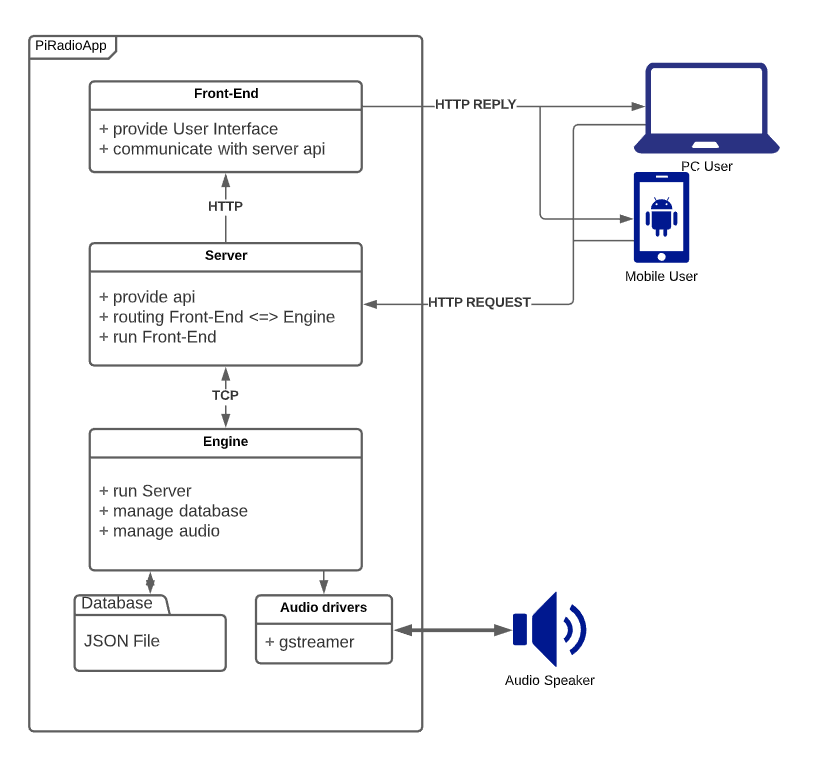
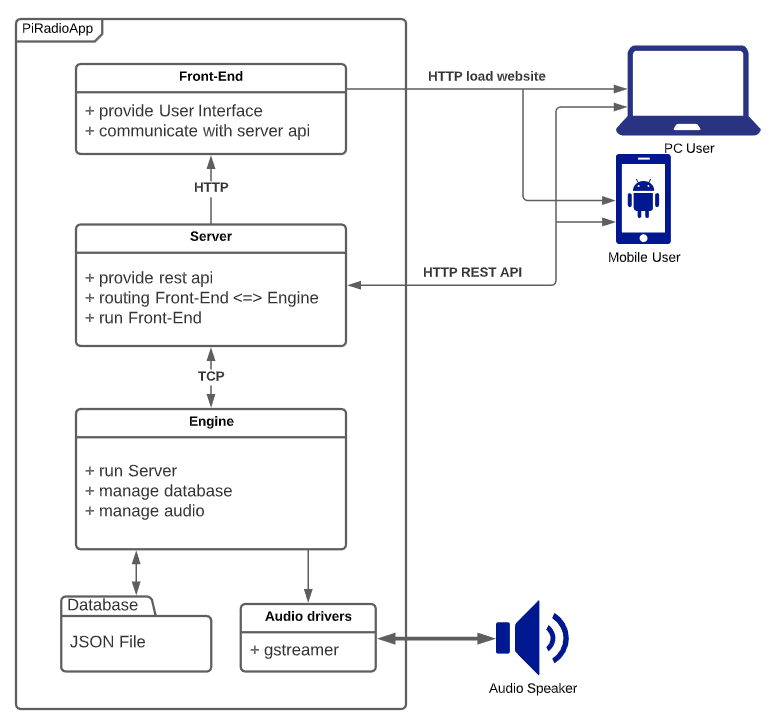
updated docs, add basic manuals

Changed region(s): [[0.0, 0.0, 0.9859, 0.9986], [0.4313, 0.4539, 0.4621, 0.4842]]

diff --git a/docs/engine.md b/docs/engine.md
@@ -1,0 +1,111 @@
+[Main](README.md)
+
+# Engine Module Documentation
+
+# Run Engine
+## Arguments
+Example
+```http
+    ./PiRadioApp -col -db test-database.json
+```
+
+Some arguments send to engine are also pass to server (if not `--only` mode).
+
+| Argument | Short | Description | Default | Example |
+| --- | --- | --- | --- | --- | 
+| `--help` | `-h` | only show help sheet | x | x |
+| `--internal-communication-address [addr]` | `-ica [addr]` | set address | `tcp://127.0.0.1:7982` | `-ica tcp://127.0.0.1:5000` |
+| `--server-host-address [addr]` | `-sha [addr]` | set host website/api | `:8080` | `-sha 127.0.0.1:8000` |
+| `--debug` | x | debug mode (shows debug message) | no debug | x |
+| `--only` | x | run only engine (without server) | run server | x | 
+| `--database [path]` | `-db [path]` | set database file path | `~/radio-database.json` | `-db test-database.json` |
+| `--colors` | `-col` | set colors in console [more](https://en.wikipedia.org/wiki/ANSI_escape_code#Colors) | no colors | x |
+| `--basic` | x | only important messages (warn, err) | all std msgs | x |
+| `--no-audio` | `-na` | no audio mode, mainly testing purpose | audio on | x | 
+| `--run-server-cmd [cmd]` | `-rsc [cmd]` | set run server cmd | `./build/server` | `-rsc ./server` |
+| `--resource [path]` | `-res [path]` | set server resource path ((!) without args) | `server/resources/` | `-res var/www` | 
+
+# Communication with Engine
+
+> Communication with engine is via **TCP** socket.
+
+### **TCP Communication**
+Communication via tcp socket require specific ip and port. Allows to control engine in local network.
+
+Best option is to use framework ZMQ to communicate. 
+
+## Routes and Requirements
+---
+| Route | [Request (value)](#message-format---json---to-engine) | [Reply](#message-format---json---from-engine) | Description |
+| --- | --- | --- | --- |
+| `database/get/all` | `route` | `status`, array of Stations | get all available Stations |
+| `database/put` | `route`, [Station JSON](#station-json-format---to-engine) | `status` | put new/change exist: Station uri by `name` |
+| `database/delete` | `route`, Station `name` in JSON | `status` | delete Station by `name` | 
+| `audio/switch/prev` | `route` | `status` | previous station |
+| `audio/switch/next` | `route` | `status` | next station |
+| `audio/set/state` | `route`, `state` in JSON value | `status` | set [state](#engine-state): `play`, `pause` or `stop` |
+| `audio/set/station` | `route` | `status`,Station `name` in JSON | set station by `name`| 
+| `audio/get/state` | `route` | `status`,  `state` in JSON value | return Audio Engine [state](#engine-state) | 
+| `audio/get/current` | `route` | `status`, return current Station in JSON value | return all detail about current station |
+
+`status` mean `code` and `message` about status of execution. [More Details](#message-format---json---from-engine)
+## Details
+---
+### Default Path 
+```python
+tcp://127.0.0.1:5010
+```
+
+### Message Format - JSON - to engine
+<span style="color:red">
+<b>IMPORTANT</b>
+Messages must have JSON format, but they are sent and recive as string.
+</span>
+
+```json
+{
+    "route" : "example/route",
+    "value" : null
+}   
+```
+`value` can contain JSON format, depends on route.
+
+### Message Format - JSON - from engine
+```json
+{
+    "code" : 200,
+    "message" : "example ok message",
+    "value" : null
+}
+```
+- `code` - status code
+- `value` can contain JSON format, depends on request eg. Array of stations
+
+### Station JSON format - to engine
+```json
+{
+    "name" : "example name",
+    "uri" : "http://example.station"
+}
+```
+
+### Station JSON format - from engine
+```json
+{
+    "name" : "example name",
+    "uri" : "http://example.station",
+    "isPlaying" : false,
+    "title" : "If it is"
+}
+```
+
+### Engine State
+- `play` 
+- `pause` 
+- `stop`
+```json
+{
+    "state" : "play"
+}
+```
+

diff --git a/docs/developer_manual.md b/docs/developer_manual.md
@@ -1,26 +1,115 @@
 # Developer manual
 
 ## Requirements
-os 
-
+Supported OS (tested):
+- Raspbian 5.4 Lite (Raspberry 3B+)
+- Ubuntu 18.04 or newer
+- Linux Mint 20 Ulyana Cinnamon
+- WSL Ubuntu 18.04 - NO AUDIO MODE
+- WSL Ubuntu 20.04 - NO AUDIO MODE
+# Setup
+Download repository
+```
+git clone git@github.com:PiRadioApp/PiRadioApp.git
+```
 ## Quick and fast setup
-scripts
+---
+### Build
+```Cpp
+cd PiRadioApp/scripts
+sudo sh install_enviroment.sh
+sudo sh build.sh
+```
+### Example run
+```Cpp
+cd ../build
+./PiRadioApp -res ../server/resource -db ../test-database.json
+```
 
 ## Manual setup
-tips
+---
+[Instruction here](developer_manual_install.md)
 
 ### Enviroment (dependencies)
-install env
+Follow steps in `scripts/install_enviroment.sh` to detect where the problem is. Remember that `apt` require `sudo` access to install.
+
+Compilators require (tested): gcc-9 g++-9 (C++14 support)
+Golang: 1.13
 
 ### Build
-compile engine, server
+```Cpp
+sh scripts/build.sh
+```
 
 ### Link Front-End
-resources
+use proper [flag](server.md) to set resources directory.
+Directory required resource structure:
+```Shell
+- resources/
+    - index.html
+    - favicon.png
+```
+All you put in resources will be delivered by server ([more](server.md))
+
+Example resource structure:
+```Shell
+- resources/
+    - index.html
+    - favicon.png
+    - css/
+        - example.css
+    - js/
+        - example.js
+    - img/
+        - example.jpg
+    - supportfile.txt
+```
+Then:
+- `example.css` will be avaliable at `/radio/res/css/example.css`
+- `example.js` will be avaliable at `/radio/res/js/example.js`
+- `example.jpg` will be avaliable at `/radio/res/js/example.jpg`
+- `supportfile.txt` will be avaliable at `/radio/res/supportfile.txt`
+
+With that you are able to build flexible directory tree with plenty of files, which are devlivered by server.
+
 
 ### Run
-add resources, set addresses 
+- add flag with path to resource directory
+- add flag with database json path
+- add flag with ip address if needed
 
-### Create deb package
-script
-process description
+If server, or engine do not respond you can find out logs in file: `client.txt`
+
+## NGINX
+<!-- TODO -->
+
+## Create deb package
+---
+With using automated script in folder `scripts`:
+```
+sh create_deb.sh
+```
+Script will create folder `linuxconfig` and copy all files needed to create deb package, then with `dpkg-deb` tool  create `.deb` package in directory `out/`.
+
+`linuxconfig` can be removed when `.deb` is created.
+
+Files needed in `linuxconfig`:
+```Cpp
++ linuxconfig/
+    + DEBIAN/
+        - control
+    + usr/
+        + bin/
+            + piradio/
+                - help.json
+                - resources/
+                - server
+                - PiRadioApp
+                - run.sh
+    + etc/
+        + systemd/
+            + system/
+                - piradio.service
+```
+
+Thats file are needed, but directory tree can be diffrent depends on deploy method.

diff --git a/README.md b/README.md
@@ -1,11 +1,19 @@
 
-# <img src="server/resources/favicon.png" width="32">  PiRadio 
+# <img src="server/resources/favicon.png" width="32">  PiRadio
 [![Build Status](https://travis-ci.com/PiRadioApp/PiRadioApp.svg?branch=master)](https://travis-ci.com/PiRadioApp/PiRadioApp)
 ## Description
 ```
 Simple embedded radio player.
 Control device radio via local website and play online radio from given stream URL on Linux (e.g. Raspberry Pi).
 ```
+```
+version v.0.6
+```
+
+## Install & run
+install deb 
+<!-- TODO -->
+
 ## Features:
 - playing radio from any audio stream,
 - remote control and manage through web: local website, http rest api, 
@@ -15,31 +23,18 @@ Control device radio via local website and play online radio from given stream U
 - colorfull console logs from engine and server,
 - logs saved to file,
 
-## Technology
-| Engine | Server | Tests |
-| :-: | :-: | :-: |
-| C/C++ | Golang | C++/Python |
-
-### External frameworks and Libs
-| Engine | Server | Tests |
-| :-: | :-: | :-: |
-| gstreamer | zmq | gtest |
-| zmq |  | termcolor |
-| nlohmann::json | | pyzmq |
-
-## Simple user manual
-## How to use
 ### Simple user manual:
 1. deploy app on linux (especially usefull with raspberry pi (ver 3B/4)),
 2. add station - url address to radio stream,
 3. plug raspberry to audio device (speakers),
 4. play and enjoy your favourite online radio, and control it through the website.
 
-### Install
-install deb
+# [Documentation:](docs/README.md)
+1. ### [User manual](docs/user_manual.md)
+2. ### [Developer manual](docs/developer_manual.md)
 
-
-## [USER MANUAL](docs/user_manual.md)
-## [DEVELOPER MANUAL](docs/developer_manual.md)
-
-## [More about deploy and use you can read here.](docs/README.md)
+--- 
+## Authors:
+| | responsibilities |
+| --- | --- |
+| @szymonjanas | |

diff --git a/docs/developer_manual_install.md b/docs/developer_manual_install.md
@@ -1,0 +1,39 @@
+[Main](README.md)
+
+**Installation guide for: Ubuntu (also WSL), Mint, Raspbian.**
+
+_WARNING: Audio is not working on WSL!_
+# Developement version installation guide:
+## Install
+
+1. **C/C++** `sudo apt install g++ gcc cmake`
+2. **Gstreamer** `sudo apt-get install libgstreamer1.0-0 gstreamer1.0-plugins-base gstreamer1.0-plugins-good gstreamer1.0-plugins-bad gstreamer1.0-plugins-ugly gstreamer1.0-libav gstreamer1.0-doc gstreamer1.0-tools gstreamer1.0-x gstreamer1.0-alsa gstreamer1.0-gl gstreamer1.0-pulseaudio`
+3. **Golang** `sudo apt install golang`
+4. **ZMQ Lib** `sudo apt install libzmq5 libzmq3-dev`
+5. **ZMQ for golang** `go get github.com/pebbe/zmq4`
+6. **uTests** 
+   1. `sudo apt install libgtest-dev`
+   2. `cd /usr/src/gtest`
+   3. `sudo cmake CMakeLists.txt`
+   4. `sudo make`
+   5. go back to project folder
+***
+
+## Run
+1. in project directory (where CMakeLists.txt is)
+2. `mkdir build && cd build` - separate folder to build,
+3. `cmake .. && make` - build with cmake (compiling and linking),
+4. `go build -o server ../server/*.go` - build server 
+5. `./PiRadioApp` - run application,
+**In current version recompile is needed only when C++ files were changed!**
+
+**uTests:** After build project we can run uTests with `./PiRadioApp-engine-utests`
+
+*** 
+## Intergrations Tests
+### Install
+First you must do the previous steps.
+1. `sudo apt install python3.6 python3-pip` - install python at least ver 3.6
+2. `pip3 install setuptools pyzmq termcolor`
+### Run
+1. `python3 tests/` - run tests, call from main project folder (should be there also folders `build` and `tests`)

diff --git a/docs/README.md b/docs/README.md
@@ -2,8 +2,22 @@
 
 ## Table of context
 ---
-1. [Instalation for developers](Dev_Install.md)
-2. [Engine](Engine.md)
-3. [Server](Server.md)
+1. [User manual](user_manual.md)
+2. [Developer manual](developer_manual.md)
+---
+3. [Engine description](engine.md)
+4. [Server description](server.md)
+---
+## Technology
+| Engine | Server | Tests |
+| :-: | :-: | :-: |
+| C/C++ | Golang | C++/Python |
 
+### External frameworks and Libs
+| Engine | Server | Tests |
+| :-: | :-: | :-: |
+| gstreamer | zmq | gtest |
+| zmq |  | termcolor |
+| nlohmann::json | | pyzmq |
+Simple app scheme:
 ![Diagra](img/Diagram.png)

diff --git a/docs/user_manual.md b/docs/user_manual.md
@@ -3,8 +3,8 @@
 ## Install & Run
 deb
 change settings
+<!-- TODO -->
 
-## Manual install & Run
-ref to dev manual
-change settings
-
+## Manual install & Run, Compile from source
+Install and run from deb package is recommended, because in manual way there can occur dependency problems.
+If you still intrested in manual install go [developer manual](developer_manual.md), or [developer manual install](developer_manual_install.md).
